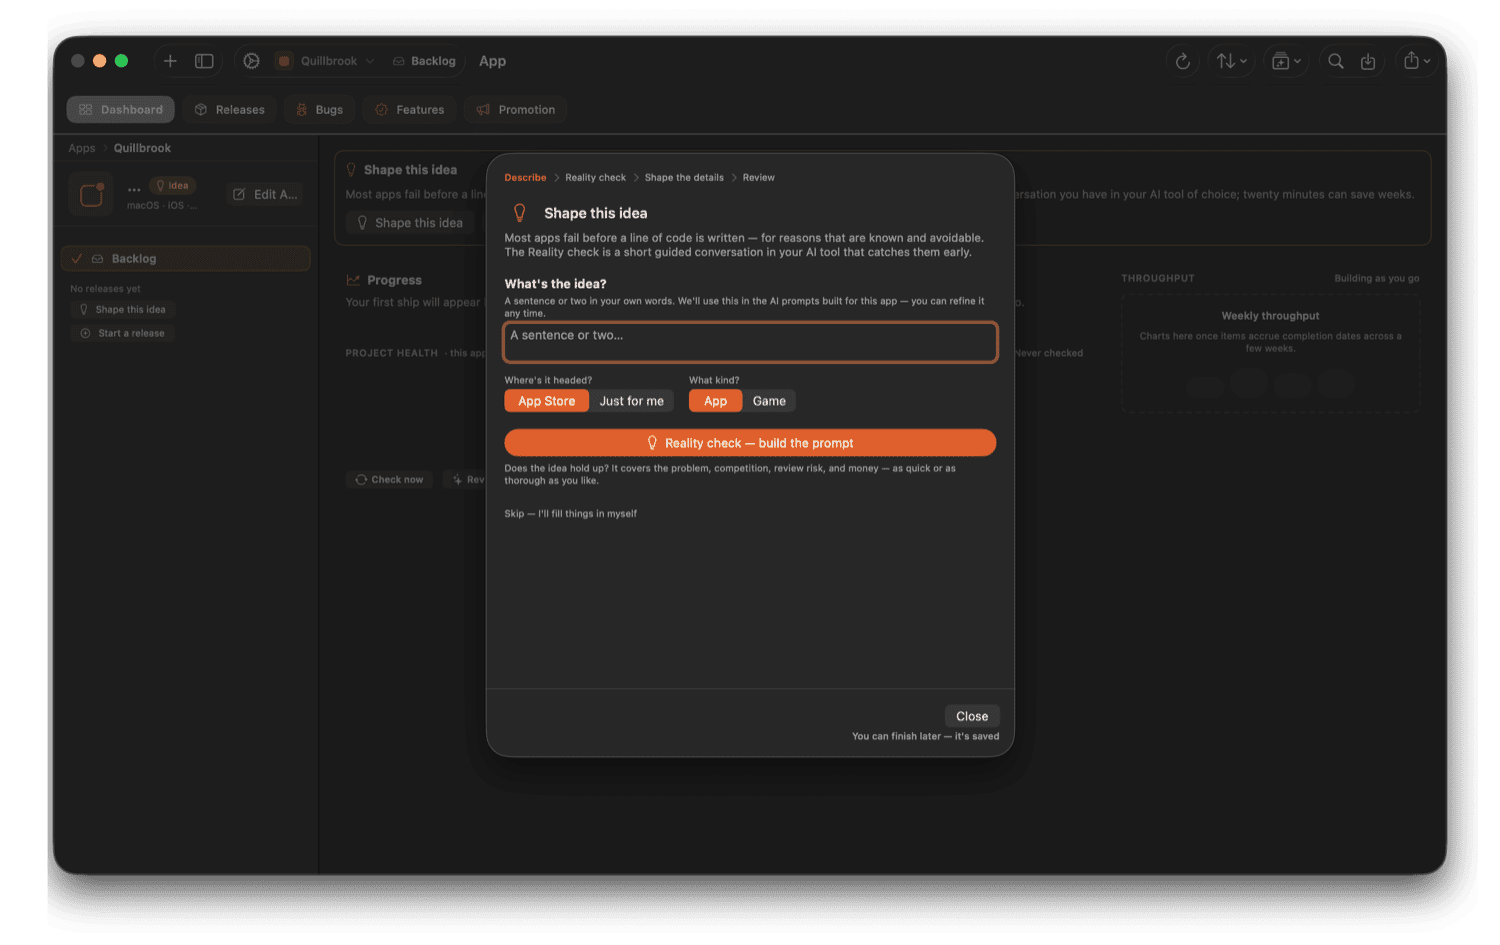
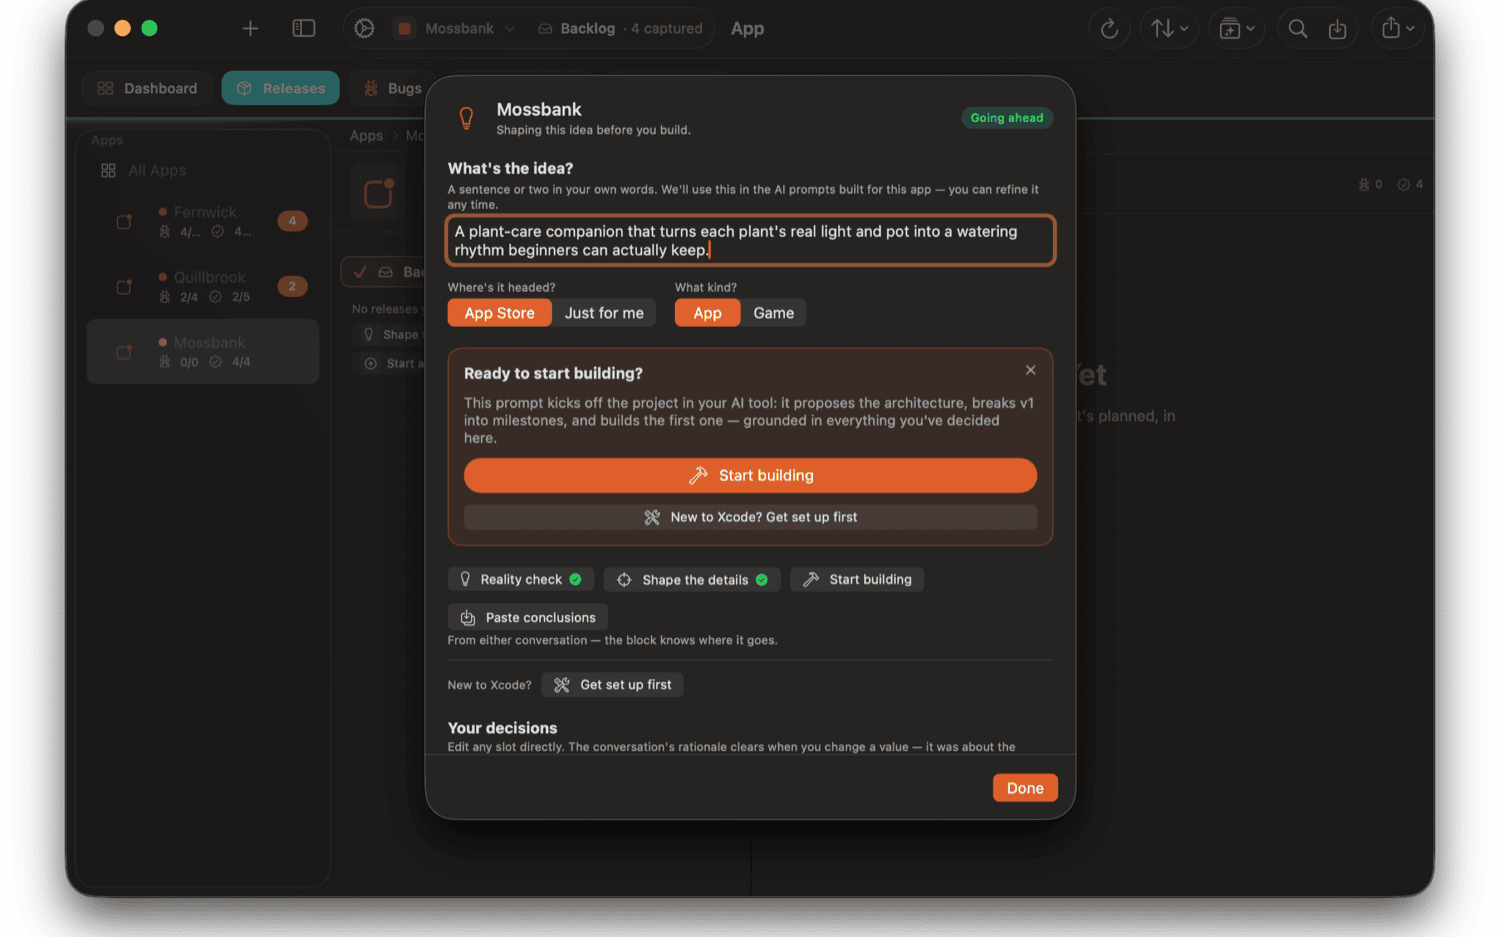
Reorganise the Shape n Ship landing screenshots
Image-only reorg; copy unchanged except the alt text on moved/new images.

  - Hero: now the app dashboard (release stage pipeline, progress chart, project
    health) — the shot that was under Step three moves up. Retires the Quillbrook
    concept-wizard capture from the hero.
  - Step one (Shape the idea): adds a new Mossbank concept-wizard screenshot,
    reusing the concept-wizard.png filename (its Quillbrook content is replaced).
  - Step two: unchanged (bugs).
  - Step three (Ship it): new release-prep checklist screenshot
    (shape-n-ship-release-checklist.png — distinct name, since release-prep.png is
    now the hero).
  - Step four: unchanged (promotion).
  - Bring your own AI: adds the AI Prompt sheet screenshot after the first
    paragraph.

The two new step captures came as white-background JPEGs; the step cards are
white, so a white-bg window in a white card reads identically to the existing
transparent-PNG windows — verified in the render. The AI-prompt capture is a
transparent PNG because it sits on the plain #fafafa section, like the hero.
All resized to 1500px wide and compressed to 80–124 KB.

.shot gains a shared top margin (was a step-local rule) so the new BYO-AI image
spaces correctly too; the hero wrapper zeroes it.

Verified: renders with no horizontal overflow at 375px, all six images scale
within the viewport, every img's alt matches what it shows, no broken
references, zero external requests.

diff --git a/shape-n-ship.html b/shape-n-ship.html
@@ -46,9 +46,8 @@
 
     .step p { margin-bottom: 0; }
 
-    /* Screenshot below a step's text. The .shot base style (styles.css) adds no
-       frame — these are self-framed window captures. */
-    .step .shot { margin-top: 1.1rem; }
+    /* Screenshots are self-framed window captures — the .shot base style
+       (styles.css) adds spacing but deliberately no border/shadow. */
 
     .prices { display: grid; gap: 1.25rem; margin-top: 0.5rem; }
 
@@ -111,8 +110,8 @@
 </div>
 
 <div class="shot-figure">
-  <img class="shot" src="shape-n-ship-concept-wizard.png" width="1500" height="945"
-       alt="Shape n Ship's concept wizard — a guided reality check that builds a prompt before you write any code">
+  <img class="shot" src="shape-n-ship-release-prep.png" width="1500" height="930"
+       alt="Shape n Ship's app dashboard — the release stage pipeline, a progress chart, and project health">
 </div>
 
 <!--
@@ -151,6 +150,8 @@
         <span class="step-num">Step one</span>
         <h3>Shape the idea</h3>
         <p>A guided reality check with your AI before you write a line of code — problem, rivals, review risks, money. Not going ahead is a valid outcome; twenty minutes here can save weeks.</p>
+        <img class="shot" src="shape-n-ship-concept-wizard.png" width="1500" height="937" loading="lazy"
+             alt="Shape n Ship's concept wizard shaping a new app idea before any code is written, with the reality check and detail stages completed">
       </div>
 
       <div class="step">
@@ -166,8 +167,8 @@
         <span class="step-num">Step three</span>
         <h3>Ship it</h3>
         <p>The release checklist walks you to submission: store listing copy, App Privacy answers, deployment checks — and when Apple rejects, real help working out why and what to do.</p>
-        <img class="shot" src="shape-n-ship-release-prep.png" width="1500" height="930" loading="lazy"
-             alt="Shape n Ship's release stages, showing the prep step before submission">
+        <img class="shot" src="shape-n-ship-release-checklist.png" width="1500" height="937" loading="lazy"
+             alt="Shape n Ship's release prep checklist with App Privacy and sandbox verification items, each with an Ask AI button">
 
       </div>
 
@@ -188,6 +189,9 @@
   <section>
     <h2>Bring your own AI</h2>
     <p>Shape n Ship doesn't bundle an AI or charge for one. It writes expert prompts, packed with your project's real context, and you run them in whatever you already use — ChatGPT, Claude, Gemini, or your coding tool.</p>
+    <img class="shot" src="shape-n-ship-ai-prompt.png" width="1500" height="942" loading="lazy"
+         alt="Shape n Ship's AI Prompt sheet showing a complete, ready-to-copy bug-fix prompt built from the project's real context">
+
     <p><strong>No API keys. No extra AI bills.</strong> Your data stays in your own iCloud.</p>
     <p>That means you're never paying twice for the model you already have, and you're never stuck with whichever one we happened to pick. When you change tools, the prompts still work.</p>
   </section>

diff --git a/styles.css b/styles.css
@@ -449,15 +449,18 @@ body.fg {
    macOS window captures, saved as transparent PNGs with their own rounded
    corners and drop shadow baked in. Do NOT add a border, border-radius or
    box-shadow — the window already has them, and framing again double-frames it. */
-.fg .shot { display: block; width: 100%; height: auto; }
+.fg .shot { display: block; width: 100%; height: auto; margin-top: 1.25rem; }
 
 /* A screenshot standing on its own (e.g. the landing hero), centred in the
-   content column with the same width as the callout/body. */
+   content column with the same width as the callout/body. The wrapper handles
+   the spacing, so the image itself needs no top margin here. */
 .fg .shot-figure {
   max-width: 720px;
   margin: 2.5rem auto 0;
   padding: 0 2rem;
 }
+
+.fg .shot-figure .shot { margin-top: 0; }
 
 /* ── Footer ── */
 .fg footer {